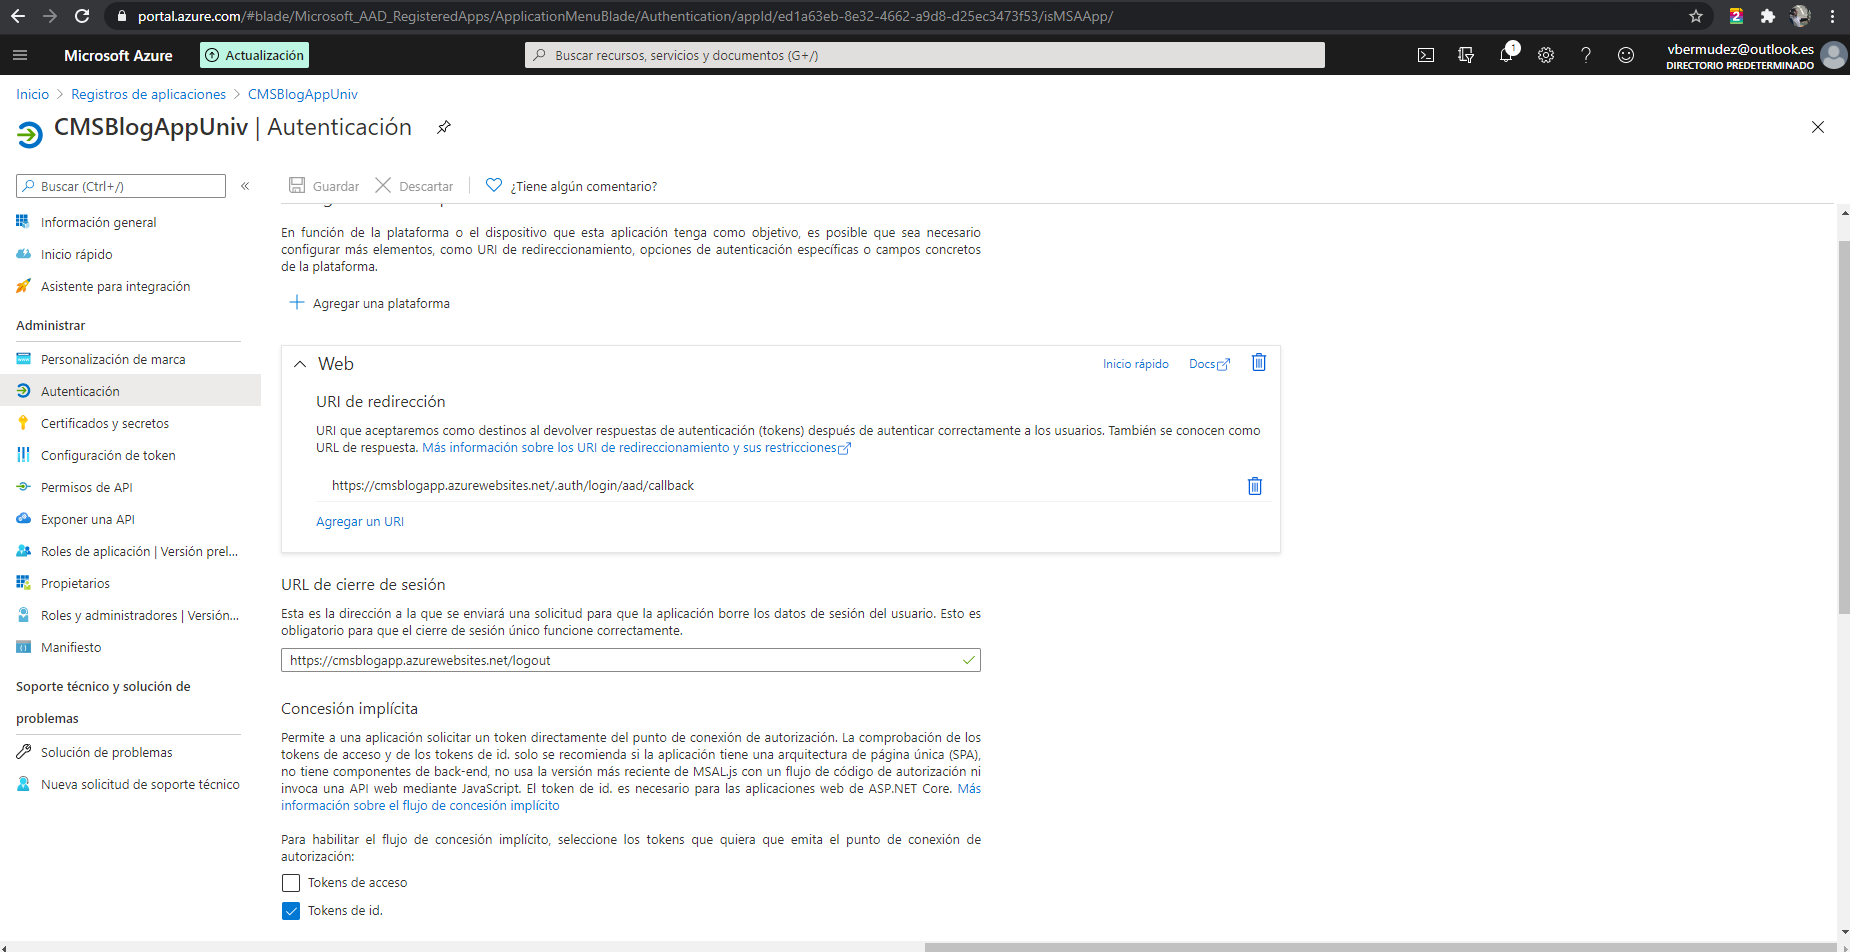
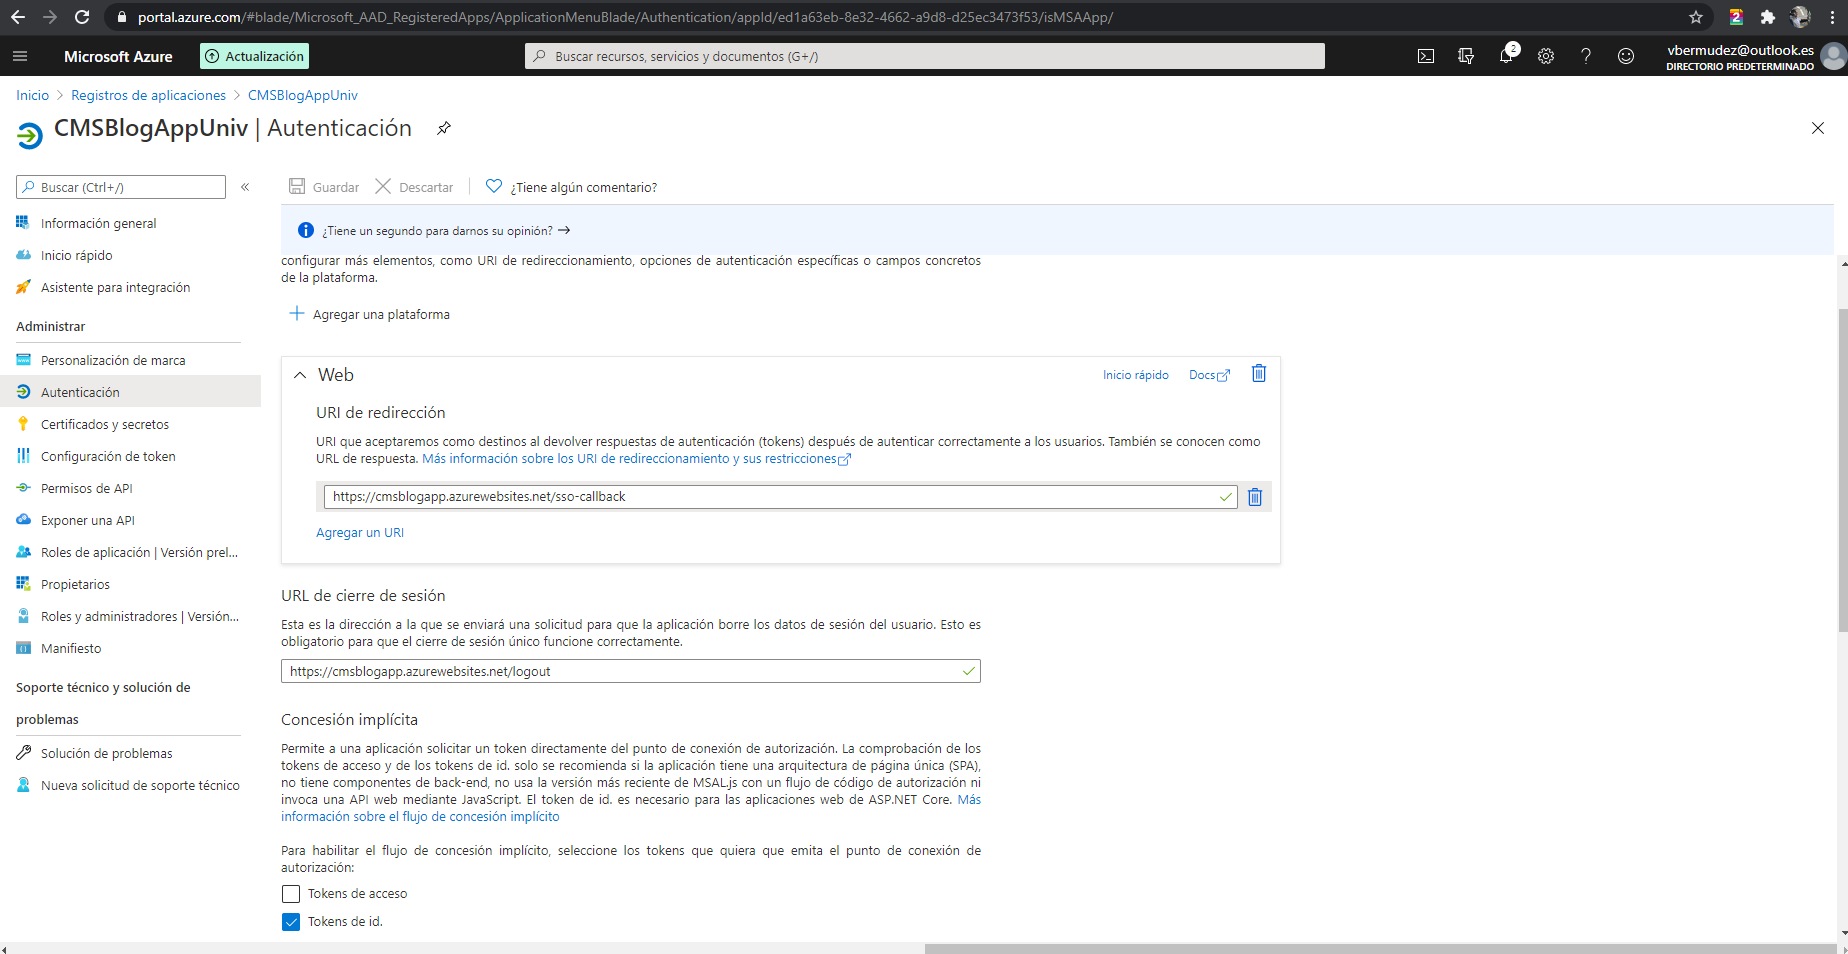
Updates config and logging

diff --git a/FlaskWebProject/views.py b/FlaskWebProject/views.py
@@ -63,12 +63,12 @@ def login():
     if current_user.is_authenticated:
         return redirect(url_for('home'))
     form = LoginForm()
-    app.logger.info('User login attempt: {}'.format(form.username.data))
     if form.validate_on_submit():
+        app.logger.info('User login attempt: {}'.format(form.username.data))
         user = User.query.filter_by(username=form.username.data).first()
         if user is None or not user.check_password(form.password.data):
             flash('Invalid username or password')
-            app.logger.info('User login error: {}'.format(form.username.data))
+            app.logger.warn('User login error: {}'.format(form.username.data))
             return redirect(url_for('login'))
         login_user(user, remember=form.remember_me.data)
         next_page = request.args.get('next')

diff --git a/config.py b/config.py
@@ -35,7 +35,10 @@ class Config(object):
     if not CLIENT_ID:
         raise ValueError("Need to define CLIENT_ID environment variable")
 
-    REDIRECT_PATH = "/.auth/login/aad/callback"  # Used to form an absolute URL; must match to app's redirect_uri set in AAD
+    # REDIRECT_PATH = "/.auth/login/aad/callback"  # Used to form an absolute URL; must match to app's redirect_uri set in AAD
+    REDIRECT_PATH = os.getenv("REDIRECT_PATH")
+    if not REDIRECT_PATH:
+        raise ValueError("Need to define REDIRECT_PATH environment variable")
 
     # You can find the proper permission names from this document
     # https://docs.microsoft.com/en-us/graph/permissions-reference
